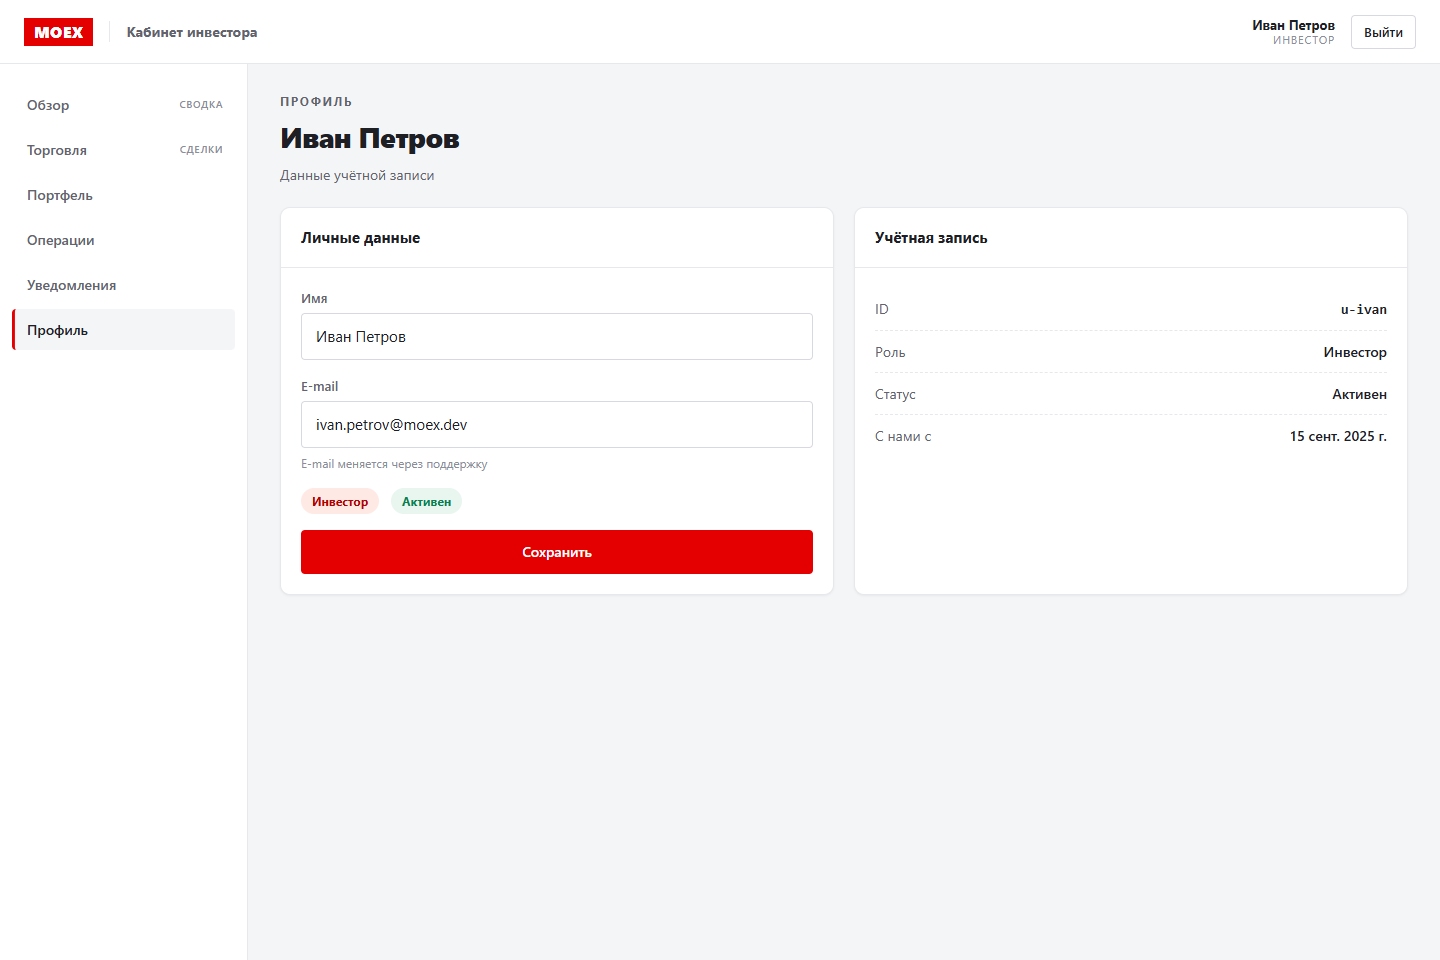
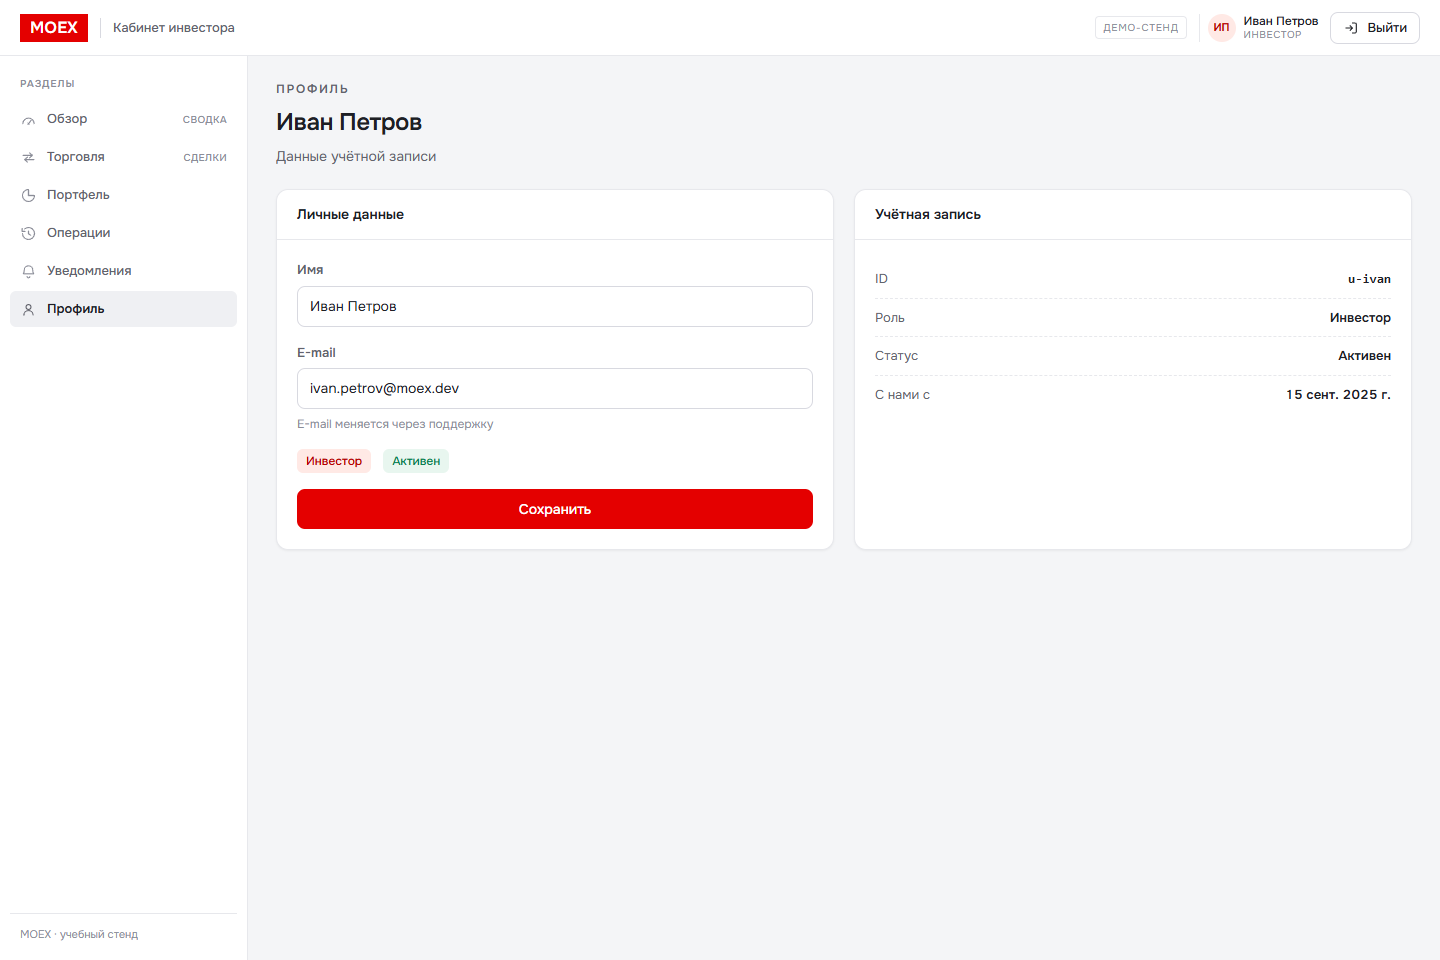
feat(moex): fresh screens on the brand hero and new cabinet
The card now opens on the MOEX landing hero, where the identity actually reads, instead of a login form; cabinet shots were retaken on the rebuilt shell.

diff --git a/index.html b/index.html
@@ -249,8 +249,8 @@ footer{padding:34px 0 46px; color:var(--muted); font-size:14px; display:flex; ju
 
       <article class="card" data-cat="backend">
         <div class="top"><h3>moex-vibe-portfolio</h3><span class="lang">TypeScript</span></div>
-        <div class="shots"><img src="assets/media/moex-portfolio/overview.png" class="wide" loading="lazy" decoding="async" alt="Обзор портфеля"><img src="assets/media/moex-portfolio/trading.png" class="half" loading="lazy" decoding="async" alt="Заявка на покупку"><img src="assets/media/moex-portfolio/profile.png" class="half" loading="lazy" decoding="async" alt="Профиль"></div>
-        <p>Портфолио под вакансию «Вайбкод-разработчик» Московской биржи: восемь full-stack проектов на React 19 и Fastify — кабинет с реальными сделками и пополнением, WebSocket-терминал котировок, платежи с идемпотентностью, админка с RBAC, SSR-лендинг, GraphQL-витрина, калькулятор доходности и дизайн-система в стиле MOEX. Своё правило ESLint «один выход из функции», общий UI-кит, 15 тестов и сборка всех восьми приложений.</p>
+        <div class="shots"><img src="assets/media/moex-portfolio/landing.png" class="wide" loading="lazy" decoding="async" alt="Лендинг Московской биржи"><img src="assets/media/moex-portfolio/overview.png" class="half" loading="lazy" decoding="async" alt="Обзор портфеля"><img src="assets/media/moex-portfolio/trading.png" class="half" loading="lazy" decoding="async" alt="Заявка на покупку"></div>
+        <p>Портфолио под вакансию «Вайбкод-разработчик» Московской биржи: восемь full-stack проектов на React 19 и Fastify — кабинет с реальными сделками и пополнением, WebSocket-терминал котировок, платежи с идемпотентностью, админка с RBAC, SSR-лендинг, GraphQL-витрина, калькулятор доходности и дизайн-система в стиле MOEX. Айдентика биржи — фирменный красный, ступенчатый знак, плотные таблицы и своя сетка иконок из 45 SVG-знаков — перенесена в интерфейсы. Своё правило ESLint «один выход из функции», общий UI-кит, 15 тестов и сборка всех восьми приложений.</p>
         <div class="tag">React 19 · TypeScript · Fastify · GraphQL · WebSocket · SSR · ESLint single-exit</div>
         <div class="links"><a href="https://github.com/kepanasyuke/moex-vibe-portfolio" target="_blank" rel="noopener">Код</a></div>
       </article>
